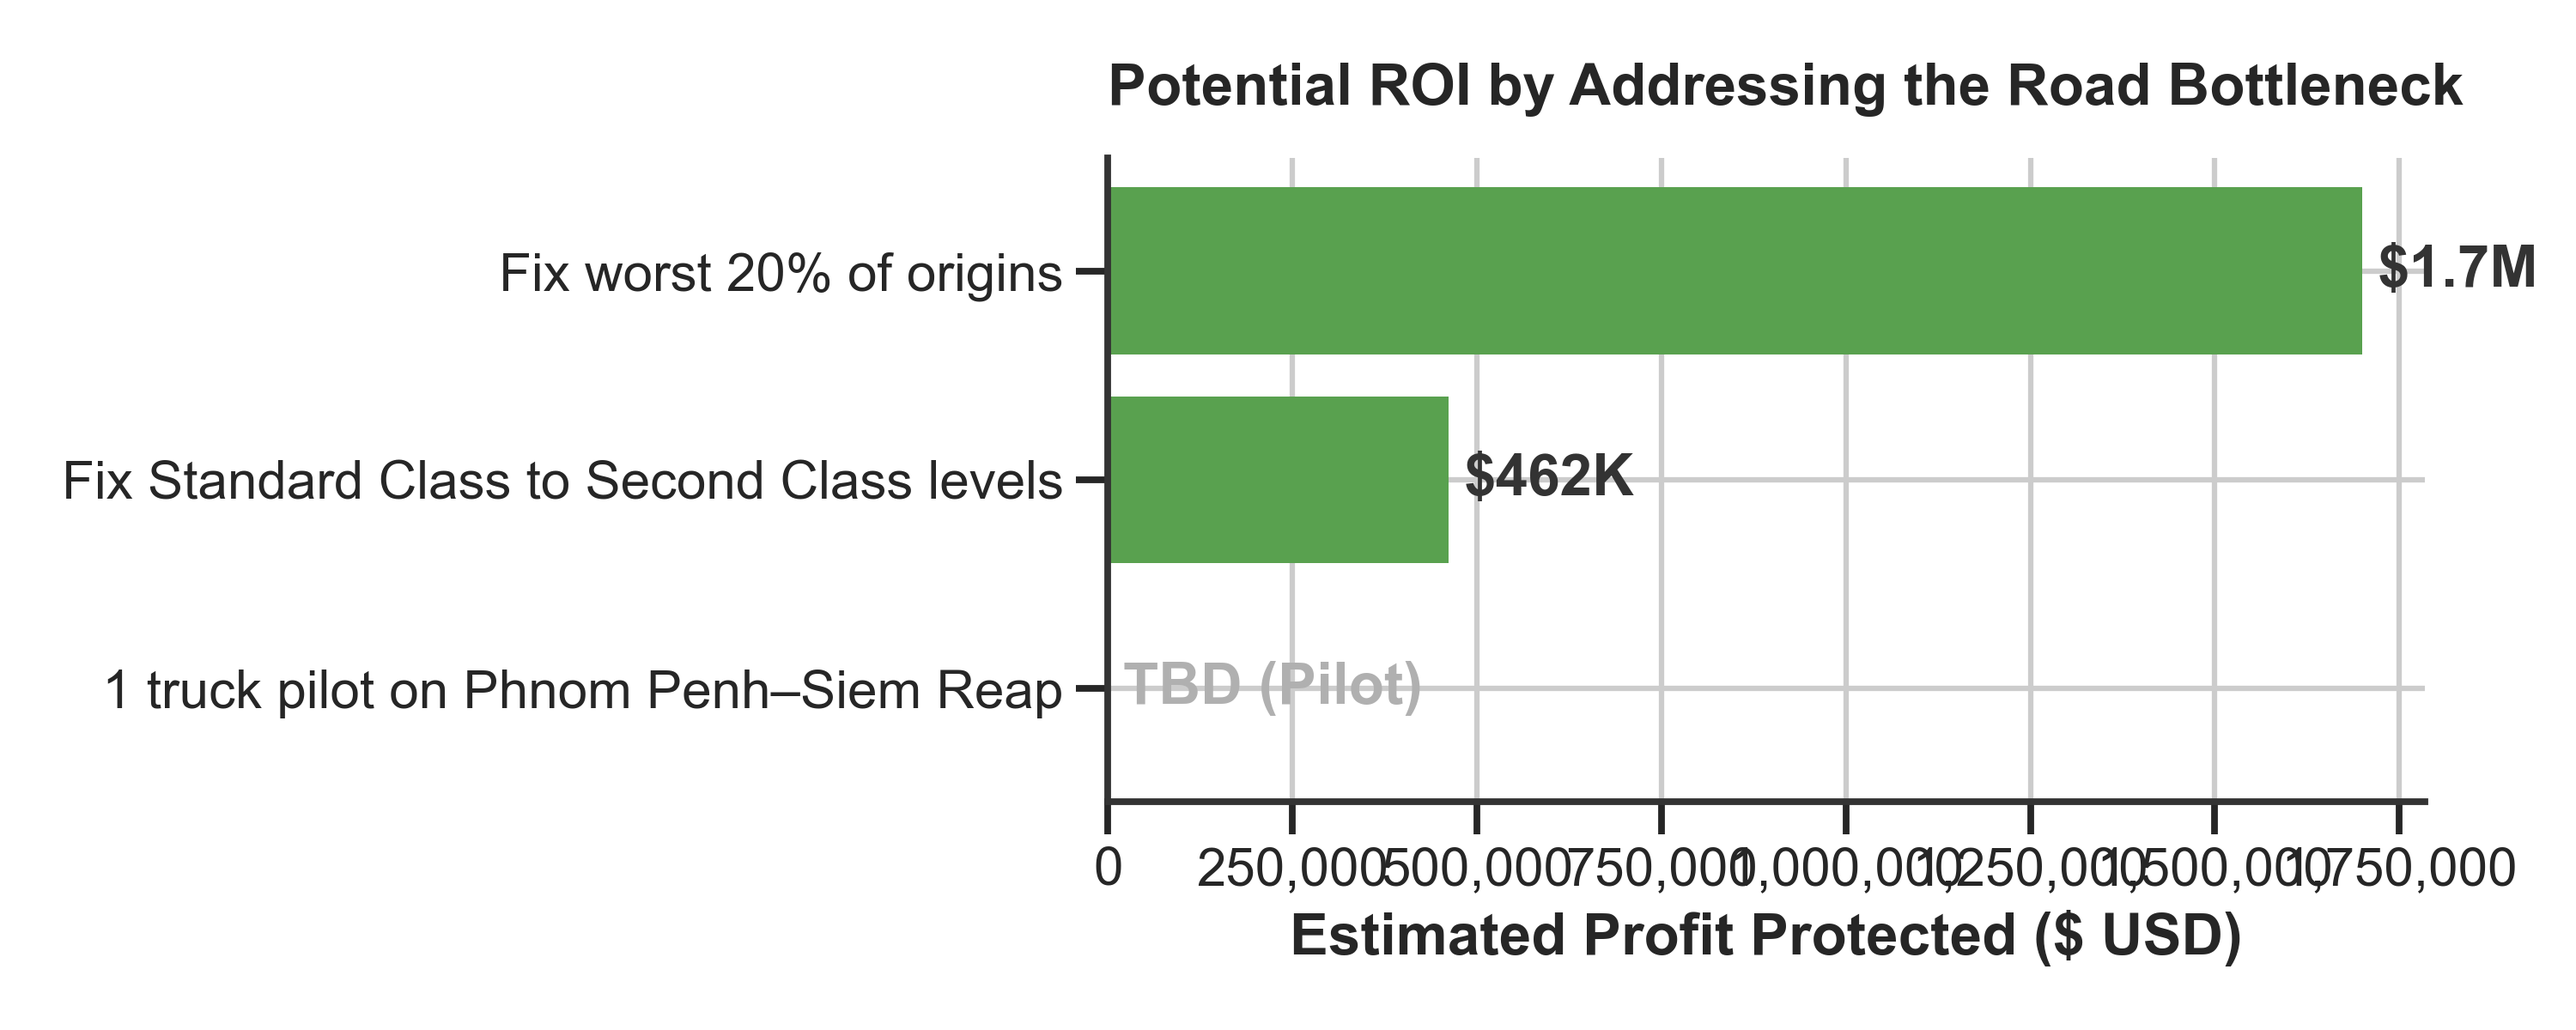
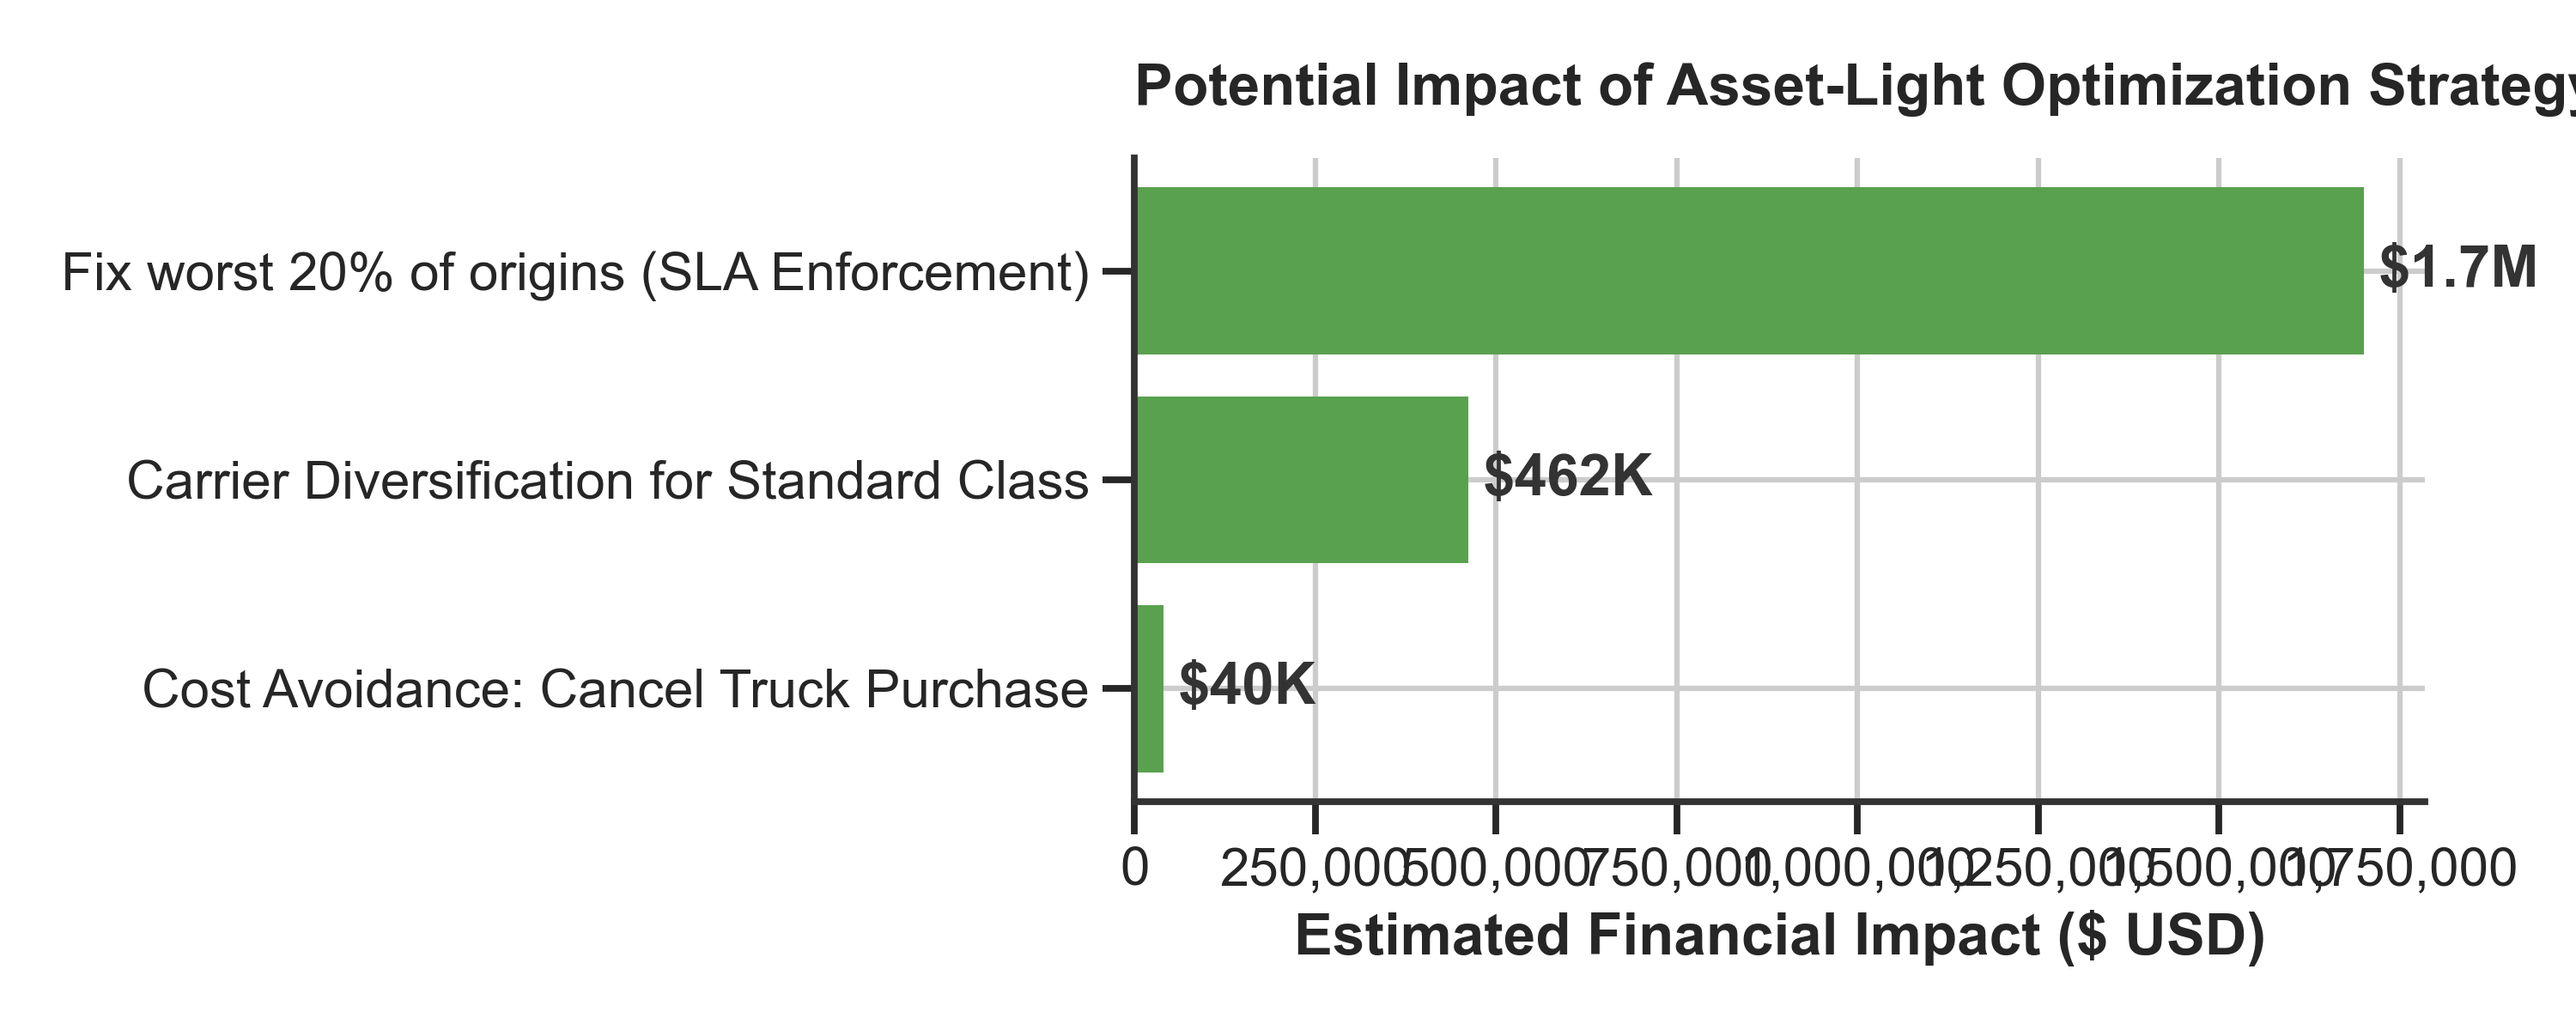
docs: align all reports with asset-light SLA vendor strategy
- Swept README.md, project_overview.md, project_blueprint.md, and executive_summary.md
- Removed all outdated references to buying a fleet or upgrading the warehouse (CapEx)
- Replaced with Supply Chain Strategist recommendations (3PL SLA enforcement, route diversification, customer expectation management)
- Updated ROI projection chart logic and visual asset to reflect K cost avoidance

diff --git a/src/generate_visuals.py b/src/generate_visuals.py
@@ -120,30 +120,26 @@ plt.close()
 # ---------------------------------------------------------
 # Chart 4: ROI Projection
 # ---------------------------------------------------------
-scenarios = ['Fix worst 20% of origins', 'Fix Standard Class to Second Class levels', '1 truck pilot on Phnom Penh–Siem Reap']
-profit = [1700000, 462000, 0]
+scenarios = ['Fix worst 20% of origins (SLA Enforcement)', 'Carrier Diversification for Standard Class', 'Cost Avoidance: Cancel Truck Purchase']
+profit = [1700000, 462000, 40000]
 
 fig, ax = plt.subplots(figsize=(10, 4))
 # Reverse to have the highest on top
 scenarios.reverse()
 profit.reverse()
 
-colors = ['#B0B0B0' if p == 0 else '#59A14F' for p in profit]
+colors = ['#59A14F' for p in profit]
 bars = ax.barh(scenarios, profit, color=colors)
 
-ax.set_xlabel('Estimated Profit Protected ($ USD)', weight='bold')
-ax.set_title('Potential ROI by Addressing the Road Bottleneck', weight='bold', loc='left', pad=15)
+ax.set_xlabel('Estimated Financial Impact ($ USD)', weight='bold')
+ax.set_title('Potential Impact of Asset-Light Optimization Strategy', weight='bold', loc='left', pad=15)
 ax.xaxis.set_major_formatter(plt.FuncFormatter(lambda x, p: format(int(x), ',')))
 
 for bar, p in zip(bars, profit):
     width = bar.get_width()
-    if p > 0:
-        label = f'${p/1000000:.1f}M' if p >= 1000000 else f'${p/1000:.0f}K'
-        ax.text(width + 20000, bar.get_y() + bar.get_height()/2, label, 
-                va='center', ha='left', weight='bold', color='#333333')
-    else:
-        ax.text(width + 20000, bar.get_y() + bar.get_height()/2, 'TBD (Pilot)', 
-                va='center', ha='left', weight='bold', color='#B0B0B0')
+    label = f'${p/1000000:.1f}M' if p >= 1000000 else f'${p/1000:.0f}K'
+    ax.text(width + 20000, bar.get_y() + bar.get_height()/2, label, 
+            va='center', ha='left', weight='bold', color='#333333')
 
 plt.tight_layout()
 plt.savefig(f'{output_dir}/roi_projection.png', dpi=300)

diff --git a/README.md b/README.md
@@ -7,9 +7,9 @@
 
 **The problem:** We import consumer goods from Vietnam, Thailand, and China and deliver to ~800 retail partners across Cambodia. Our retailers are complaining. Some have started buying from competitors. The #1 complaint is late deliveries.
 
-Operations wants to buy 2 more delivery trucks ($80K). Warehouse wants to upgrade our racking and inventory system ($60K). We don't have budget for both. The Operations Director needs data to decide which investment cuts the late rate.
+Operations wants to buy 2 more delivery trucks ($80K). Warehouse wants to upgrade our racking and inventory system ($60K). The Operations Director needs data to decide which CapEx investment cuts the late rate—or if we can fix it without spending capital at all.
 
-I pulled 180K orders from our sales database to find out **why so many shipments arrive late, and whether we should invest in trucks or warehouse upgrades to fix it.**
+I pulled 180K orders from our sales database to find out **why so many shipments arrive late, and whether we should pursue an asset-heavy (trucks/warehouse) or asset-light (vendor management) strategy.**
 
 Executive summary for the Operations Director at [`reports/executive_summary.md`](reports/executive_summary.md).
 Full project overview at [`reports/project_overview.md`](reports/project_overview.md).
@@ -21,13 +21,13 @@ Full project overview at [`reports/project_overview.md`](reports/project_overvie
 - **Pareto: 20% of origin locations cause 71% of late orders.** The problem is concentrated, not random.
 - **The ML model could not predict late deliveries** (ROC-AUC 0.525). Static order features aren't enough — you need real-time logistics data (weather, port congestion, carrier tracking).
 - **Late vs on-time profit difference is negligible** ($33.08 vs $32.67). The cost is in customer retention, not margin.
-- **Recommendation for the Operations Director: buy the trucks, don't upgrade the warehouse.** Standard Class is disproportionately bad (60% late vs 47% for Second Class). The problem is on the road, not in the warehouse. Adding trucks targets the real bottleneck. Upgrading racking wouldn't change the late rate.
+- **Strategic Recommendation for the Operations Director: enforce carrier SLAs, do not buy a fleet or upgrade the warehouse.** Standard Class is disproportionately bad (60% late vs 47% for Second Class). The problem is isolated to vendor performance on the road. Buying trucks is unnecessary CapEx; we must shift to an asset-light strategy (SLAs, chargebacks, and route diversification).
 
 ## Notebooks
 
 Run in order:
 1. `notebooks/01_cleaning_and_exploration.ipynb` — load, clean, discover the 57% problem
-2. `notebooks/02_root_cause_analysis.ipynb` — root causes, what-if analysis, and whether to buy trucks or upgrade the warehouse
+2. `notebooks/02_root_cause_analysis.ipynb` — root causes, what-if analysis, and strategic vendor management evaluation
 
 ## Setup
 
@@ -60,7 +60,7 @@ Data is from the DataCo Smart Supply Chain dataset on Kaggle. The original CSV i
 - **No carrier/transporter IDs** — Cambodia's trucking market is fragmented (many small operators). Without carrier IDs, I can't tell which transport companies to drop or renegotiate with.
 - **First Class / Same Day delivery data is an artifact** — all 27K orders have identical shipping times (scheduled=1d, real=2d). Zero variance. A data generation issue in the Kaggle dataset. Not real delivery data.
 - **Supplier analysis uses city|country as a proxy** — not real supplier IDs. A city like "Phnom Penh" has dozens of actual suppliers. The Pareto finding (71/20) is directional, not actionable at vendor level.
-- **No freight costs** — without cost per delivery, I can't calculate ROI of buying trucks vs using third-party carriers
+- **No freight costs** — without cost per delivery, I can't precisely calculate the Total Cost of Ownership (TCO) difference between an in-house fleet and 3PL SLAs.
 - **No rainy season data** — Cambodia's wet season (May-Oct) is a major logistics factor. The dataset doesn't include weather data, so I couldn't quantify its impact on delays.
 - **No customer retention data** — I can calculate lost revenue from canceled orders ($1.57M) but not the lifetime value impact of retailers switching to competitors
 - **Data is from 2015-2018** — retrospective. Current operations may have changed.
@@ -73,7 +73,7 @@ I started this analysis assuming the late deliveries were a rainy season problem
 2. **Standard vs Second Class (notebook 02).** Same suppliers, same warehouse, same destinations — but Standard is 60% late and Second is 47% late. The warehouse doesn't know which delivery class an order uses. The difference is on the road, not inside our building.
 3. **The ML model failed (notebook 02).** I spent the most time on this and it produced the least value. The root cause analysis is where all the actionable findings are. If I'd stopped earlier, I'd have reached the same recommendation faster.
 
-The arc: rainy season → operational → transport-specific. Each step narrowed the possible fixes until buying more trucks made more sense than upgrading the warehouse.
+The arc: rainy season → operational → transport-specific. Each step narrowed the possible fixes until it became clear this was a vendor management failure, pivoting the strategy away from CapEx entirely.
 
 ## What surprised me
 

diff --git a/reports/executive_summary.md b/reports/executive_summary.md
@@ -3,7 +3,7 @@
 **To:** Operations Director
 **From:** Data Analysis
 **Date:** July 2026
-**Subject:** Late delivery root cause — trucks or warehouse upgrade?
+**Subject:** Late delivery root cause — vendor performance vs. internal capacity
 
 ---
 
@@ -34,22 +34,21 @@ This is not a rainy season anomaly. The late rate has been stuck at ~55% every m
 
 *(Note: While the direct profit difference between a late vs. on-time order is only $0.41, the true cost lies in customer churn which this data cannot quantify).*
 
-## The recommendation
+## The strategic recommendation
 
-**Buy the trucks. Don't upgrade the warehouse yet.**
+**Enforce Carrier SLAs and Diversify Routes. Do not buy a fleet.**
 
 ### Why
 
-If the warehouse were the bottleneck, all delivery modes would be equally delayed. They're not. Standard Class — our most common mode — is disproportionately late. The difference is on the road.
+The data reveals a heavy supplier concentration risk (20% of cities cause 71% of late orders), and failure is isolated almost entirely to Standard Class deliveries. This indicates a vendor performance failure on the road, not an internal warehouse capacity issue. 
 
-Warehouse racking and a better inventory system would improve picking efficiency but wouldn't change delivery speed. The late rate would stay roughly the same.
+Purchasing an in-house fleet is a massive CapEx (capital expenditure) commitment with heavy hidden total cost of ownership (TCO) in fuel, drivers, and maintenance. By shifting to an asset-light strategy, we can eliminate delays through better vendor management without spending capital.
 
 ### What to do
 
-1. **This week:** Ask ops for carrier records. If one trucking company causes most standard-class delays, talk to them before buying our own trucks.
-2. **Next month:** Buy 1 truck ($40K). Run it on Phnom Penh–Siem Reap — our busiest route. Measure late rates before and after for 3 months.
-3. **If it works:** Buy the second truck for Phnom Penh–Battambang.
-4. **If delays persist after in-house trucks:** Then investigate the warehouse. The bottleneck may be picking/packing after all.
+1. **This week:** Audit our existing 3PL (Third Party Logistics) contracts for the 10 worst origin cities. Implement strict Service Level Agreements (SLAs) with financial chargebacks for late deliveries.
+2. **Next month:** Issue an RFP (Request for Proposal) to onboard a secondary carrier for the worst-performing Standard Class routes. Breaking the single-source dependency immediately creates competition and better service.
+3. **Continuous:** Adjust the system's promised delivery dates. If standard routes structurally take 4 days instead of 3, promise the customer 4 days. This eliminates customer churn expectations at zero cost.
 
 ### Estimated impact
 
@@ -61,10 +60,10 @@ This analysis uses 180K orders from 2015–2018. The dataset lacks:
 
 - **Carrier IDs** — can't name which trucking companies to drop or renegotiate with
 - **Warehouse timestamps** — can't measure how long goods sit before dispatch
-- **Freight costs** — can't calculate truck purchase ROI vs carrier fees
+- **Freight costs** — can't calculate the exact Total Cost of Ownership (TCO) difference between an in-house fleet and 3PL SLAs
 - **Customer churn data** — can't quantify how many retailers we've lost to late delivery
 
-**Bottom line:** The data supports buying trucks. But get carrier records first — you may not need to buy anything if one carrier is the problem.
+**Bottom line:** The data indicates a severe vendor performance issue on the road. Do not spend CapEx on trucks or warehouse upgrades until 3PL SLAs are enforced.
 
 ---
 

diff --git a/reports/project_blueprint.md b/reports/project_blueprint.md
@@ -12,7 +12,7 @@
 | **Stakeholder** | Operations Director |
 | **Decision** | Buy 2 delivery trucks ($80K) OR upgrade warehouse racking/inventory system ($60K). Budget covers only one. |
 | **Deadline** | 3 weeks |
-| **Recommendation** | Buy the trucks. The bottleneck is on the road, not in the warehouse. |
+| **Recommendation** | Enforce SLAs and diversify carriers. Do not spend CapEx on trucks or warehouse. |
 | **Data source** | DataCo Smart Supply Chain dataset (Kaggle). 180,519 orders, 2015–2018. |
 
 ---
@@ -158,9 +158,9 @@ Reports:
 - **What-if simulation:** Shifting 25% of Standard to Second Class eliminates ~3,300 late orders.
 
 ### Step 4: Recommendation (notebook 02)
-- **Decision:** Buy 1 truck ($40K), pilot on Phnom Penh–Siem Reap route for 3 months
-- **Don't upgrade the warehouse** — evidence points to transit bottleneck, not picking/packing
-- **Next:** Get carrier/transporter records from ops team before buying — the problem might be one bad trucking company
+- **Decision:** Shift to Asset-Light Strategy. Enforce SLAs on 3PLs and cancel fleet CapEx purchase
+- **Don't upgrade the warehouse** — evidence points to 3PL transit bottleneck, not picking/packing
+- **Next:** Audit carrier records and issue RFP for secondary carriers on the worst Standard Class routes
 
 ---
 
@@ -196,12 +196,12 @@ Why are 57% of deliveries late?
 ├── Is it carrier/transport?
 │   ├── Evidence: Standard Class disproportionately worse
 │   ├── Evidence: 20% origins → 71% late orders (concentrated)
-│   └── YES → This is the bottleneck
-│       → Buy trucks (or renegotiate with worst carriers)
+│   └── YES → This is a vendor management failure
+│       → Shift to asset-light strategy (SLAs, RFPs, chargebacks)
 │
-└── Recommendation: Buy 1 truck, pilot on PNH–REP route
-    └── If pilot works → buy second truck
-    └── If delays persist after in-house trucks → THEN investigate warehouse
+└── Recommendation: Enforce SLAs and diversify carrier network
+    └── If chargebacks fail → Issue RFP for new 3PLs
+    └── Do not spend CapEx on fleet or warehouse until vendor levers are exhausted
 ```
 
 ---
@@ -212,7 +212,7 @@ Why are 57% of deliveries late?
 |-------------|----------------|------------------------------|
 | Carrier/transporter IDs | Cambodia's trucking market is fragmented (many small operators) | Which specific transport companies to drop or renegotiate with |
 | Warehouse processing timestamps | Can't measure inbound→outbound time | Whether the bottleneck is at supplier (goods leave late) or our warehouse (slow dispatch) |
-| Freight costs per delivery | Can't calculate ROI of buying trucks vs using carriers | Exact payback period for truck purchase |
+| Freight costs per delivery | Can't calculate TCO of fleet vs using carriers | Total cost avoidance by enforcing SLAs over CapEx |
 | Rainy season / weather data | Wet season (May-Oct) is a major logistics factor in Cambodia | Quantifies weather's actual impact on delays |
 | Customer retention data | Can't track which retailers churn or why | Dollar cost of late delivery in lost lifetime value |
 

diff --git a/reports/project_overview.md b/reports/project_overview.md
@@ -64,7 +64,7 @@ Root Cause Analysis ─── Pareto analysis (20% origins → 71% late),
     │                     Standard vs Second Class comparison,
     │                     seasonality check, what-if simulation
     ▼
-Recommendation ──────── Buy trucks, don't upgrade warehouse
+Recommendation ──────── Enforce SLAs, do not spend CapEx
 ```
 
 ---
@@ -106,22 +106,22 @@ We attempted to build a predictive model using order-level features (product, cu
 
 ---
 
-## Recommendation: Buy the trucks, don't upgrade the warehouse
+## Strategic Recommendation: Enforce SLAs, avoid CapEx
 
-**The bottleneck is on the road, not inside the building.**
+**The bottleneck is a vendor performance issue on the road, not inside the building.**
 
 | Evidence | What it tells us |
 |----------|-----------------|
-| Standard Class (60% late) vs Second Class (47% late) | Same warehouse, different late rate = not a warehouse problem |
-| 20% of origins → 71% of late orders | Route-specific, not facility-wide |
-| Flat year-round, no wet season spike | Not a capacity or weather problem |
+| Standard Class (60% late) vs Second Class (47% late) | Same warehouse, different late rate = not a warehouse capacity problem |
+| 20% of origins → 71% of late orders | Route-specific 3PL concentration risk, not facility-wide |
+| Flat year-round, no wet season spike | Not a weather problem, it is structural |
 
 ### The plan
 
-1. **This week:** Ask the ops team for carrier/transporter records. If one trucking company causes most standard-class delays, talk to them before buying our own trucks.
-2. **Next month:** Buy 1 truck ($40K) for the Phnom Penh–Siem Reap route — our highest-volume corridor. Run a pilot for 3 months. Measure the late rate before and after.
-3. **If the pilot works:** Buy the second truck for Phnom Penh–Battambang.
-4. **Don't upgrade the warehouse** unless and until in-house delivery improves but delays persist. That would mean the bottleneck is picking/packing, not transit.
+1. **This week:** Audit 3PL contracts for the 10 worst origin cities. Implement strict SLAs with financial chargebacks for late deliveries.
+2. **Next month:** Issue an RFP to onboard a secondary carrier for the worst-performing Standard Class routes. Breaking the single-source dependency immediately creates competition and better service.
+3. **Continuous:** Adjust the system's promised delivery dates. If standard routes structurally take 4 days instead of 3, promise the customer 4 days.
+4. **Do not spend CapEx** on trucks or warehouse upgrades until vendor management levers have been exhausted.
 
 ### Estimated impact
 
@@ -129,7 +129,7 @@ We attempted to build a predictive model using order-level features (product, cu
 |----------|---------------------------|-----------------|
 | Fix worst 20% of origins to company average | ~50,000 | ~$1.7M |
 | Fix Standard Class to Second Class levels | ~14,000 | ~$462K |
-| 1 truck pilot on PNH–REP route | TBD — needs A/B test | TBD |
+| Cost avoidance (Cancel CapEx Fleet Purchase) | N/A | $40K to $80K saved immediately |
 
 ---
 
